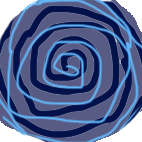
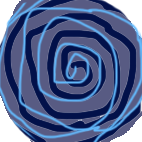
Vortex pops up but does nothing

diff --git a/LegendOfDarwin/Game1.cs b/LegendOfDarwin/Game1.cs
@@ -48,7 +48,7 @@ namespace LegendOfDarwin
 
         ZombieTime zTime;
 
-
+        Vortex vortex;
 
         public Game1()
         {
@@ -150,7 +150,10 @@ namespace LegendOfDarwin
 
             zTime = new ZombieTime(board);
 
+            vortex = new Vortex(board);
 
+            vortex.setGridPosition(15, 15);
+            vortex.setDestination(board.getPosition(15,15));
             base.Initialize();
         }
 
@@ -205,6 +208,8 @@ namespace LegendOfDarwin
             gameStart.LoadContent(Content.Load<Texture2D>("startScreen"));
 
             zTime.LoadContent(Content.Load<Texture2D>("humanities_bar"));
+
+            vortex.LoadContent(Content.Load<Texture2D>("vortex"));
 
         }
 
@@ -436,6 +441,7 @@ namespace LegendOfDarwin
             firstSwitch.Draw(spriteBatch);
             brain.Draw(spriteBatch);
             zTime.Draw(spriteBatch);
+            vortex.Draw(spriteBatch);
 
             if (messageMode)
               zombieMessage.Draw(spriteBatch,messageFont);

diff --git a/LegendOfDarwin/GameObject/Vortex.cs b/LegendOfDarwin/GameObject/Vortex.cs
@@ -1,0 +1,34 @@
+using System;
+using System.Collections.Generic;
+using System.Linq;
+using System.Text;
+using Microsoft.Xna.Framework.Graphics;
+using Microsoft.Xna.Framework;
+
+namespace LegendOfDarwin.GameObject
+{
+    class Vortex : BasicObject
+    {
+        Texture2D vortexTex;
+
+        public Vortex(GameBoard gameBoard)
+            : base(gameBoard)
+        {
+        }
+
+        public void Update()
+        { 
+        
+        }
+
+        public void Draw(SpriteBatch spriteBatch)
+        {
+            spriteBatch.Draw(vortexTex, destination, Color.White);
+        }
+
+        public void LoadContent(Texture2D tex)
+        {
+            vortexTex = tex;
+        }
+    }
+}

diff --git a/LegendOfDarwin/GameObject/BasicObject.cs b/LegendOfDarwin/GameObject/BasicObject.cs
@@ -42,6 +42,11 @@ namespace LegendOfDarwin
             destination.Y = myY;
         }
 
+        public void setDestination(Rectangle rectangle)
+        {
+            destination = rectangle;
+        }
+
         public void MoveRight()
         {
             this.setGridPosition(this.X + 1, this.Y);

diff --git a/LegendOfDarwin/GameObject/Stairs.cs b/LegendOfDarwin/GameObject/Stairs.cs
@@ -44,11 +44,6 @@ namespace LegendOfDarwin
 
         }
 
-        public void setDestination(Rectangle rectangle)
-        {
-            destination = rectangle;
-        }
-
         public void Draw(SpriteBatch spriteBatch)
         {
             switch (view)
